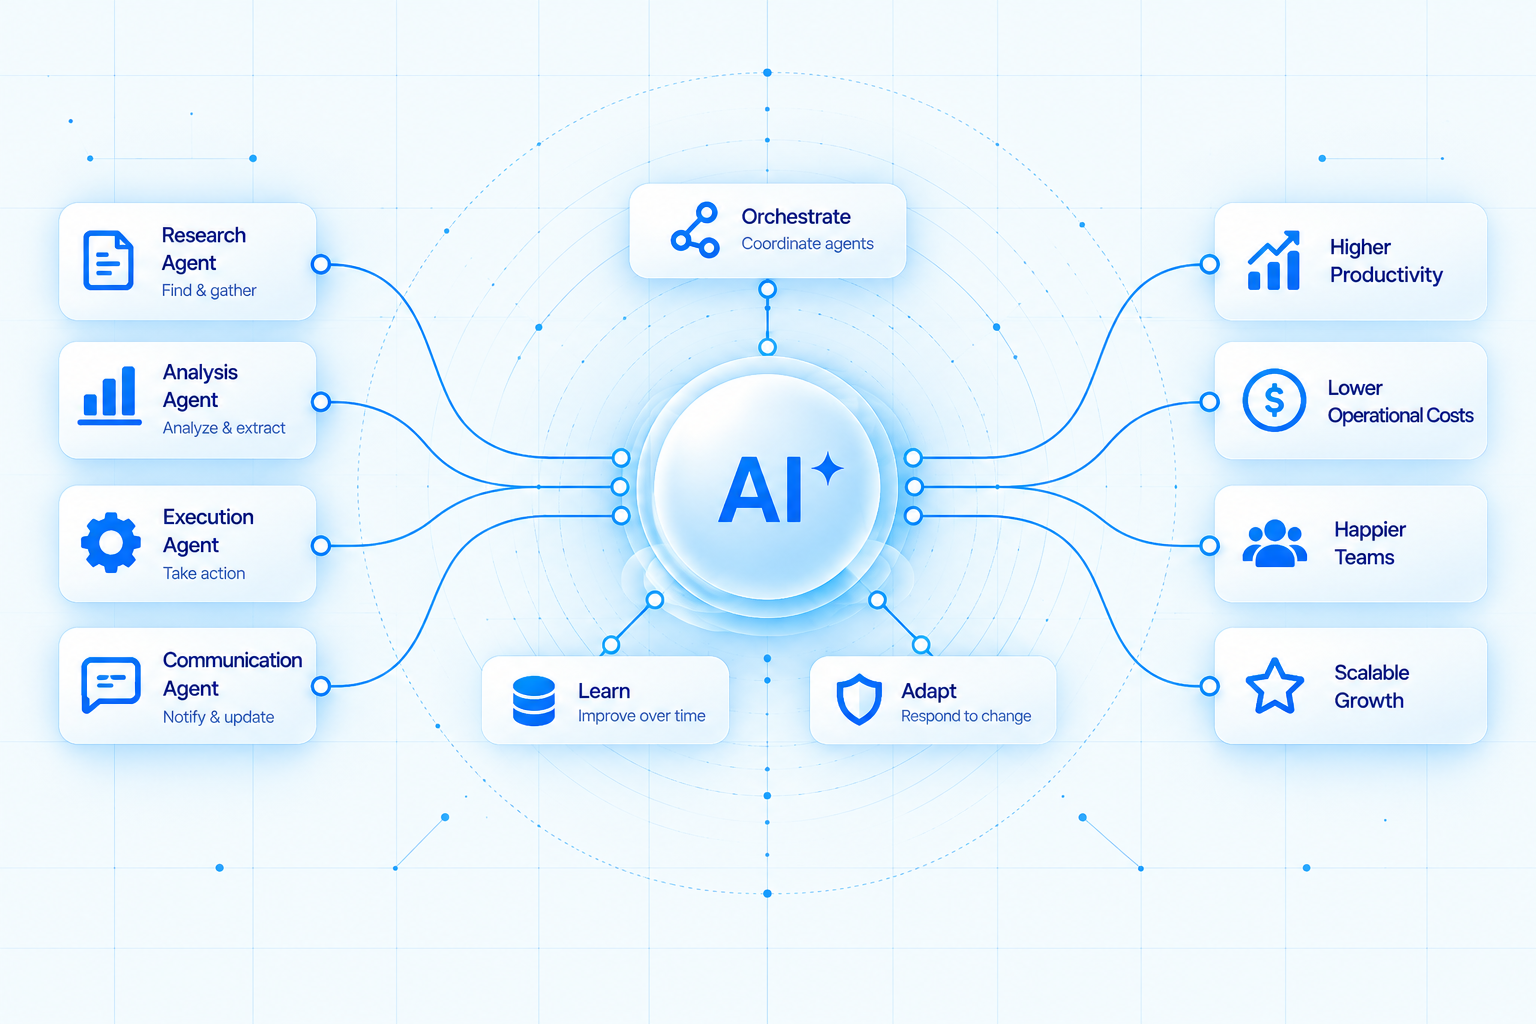
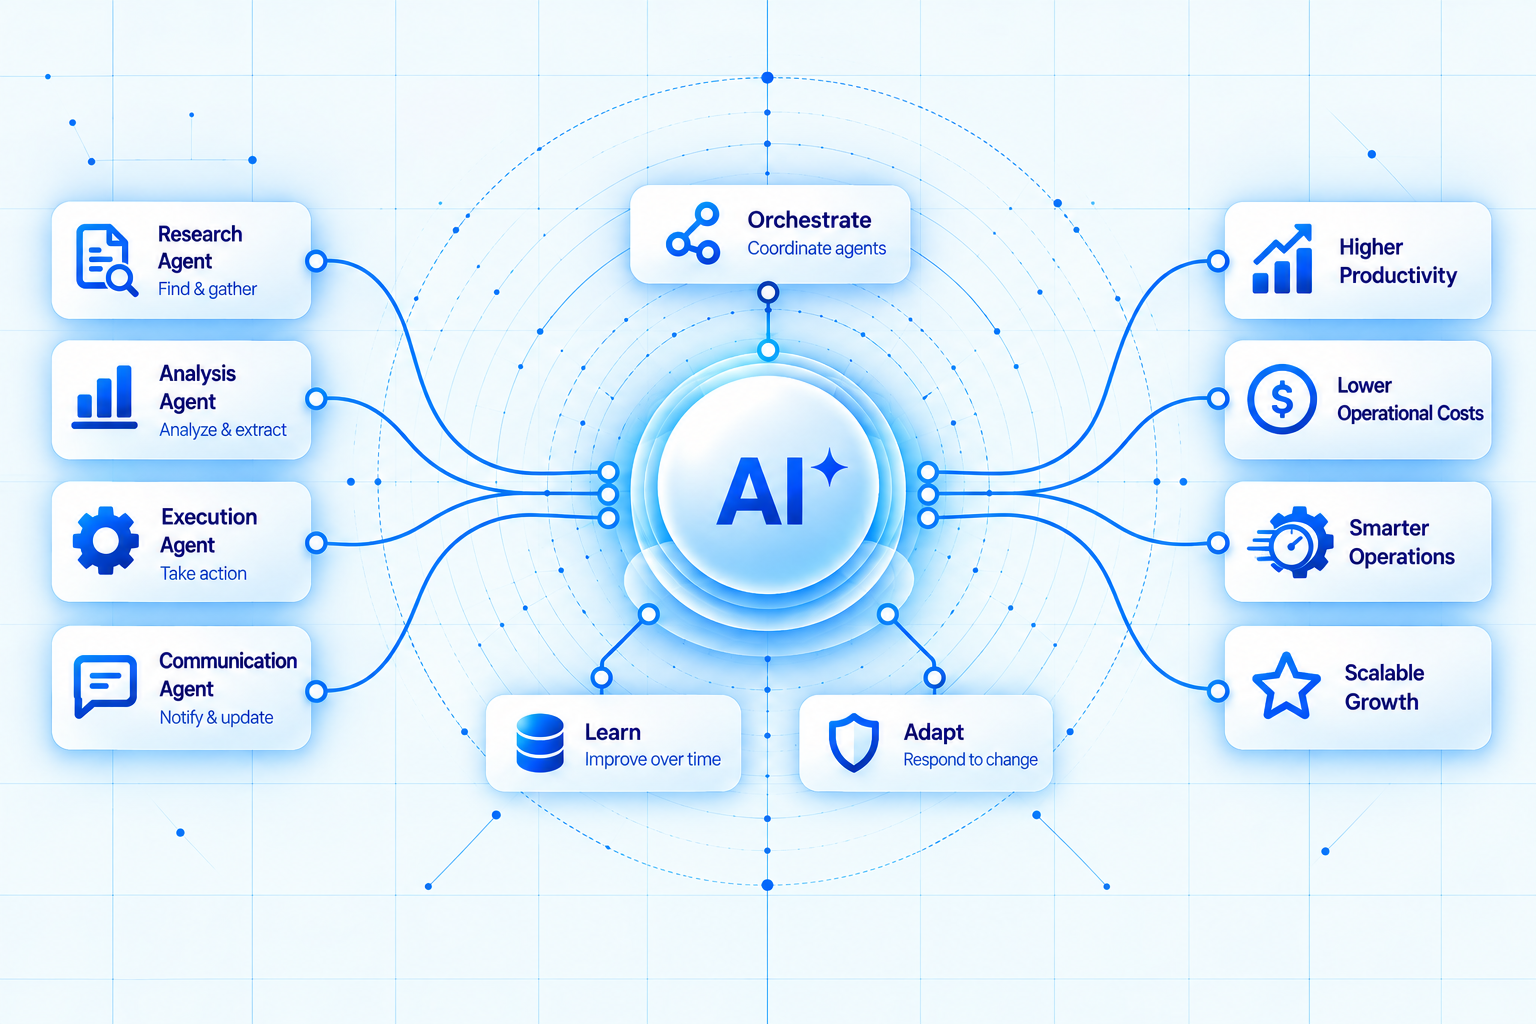
style: update testimonial content for improved clarity and engagement

diff --git a/index.html b/index.html
@@ -960,10 +960,10 @@
 
         <div class="testimonial-right-wrapper" id="testimonialTrack" role="tablist" aria-label="Customer Reviews Track">
           
-          <div class="testimonial-panel active" data-index="0" role="tab" tabindex="0" aria-selected="true" aria-label="Automate the Busywork">
+          <div class="testimonial-panel active" data-index="0" role="tab" tabindex="0" aria-selected="true" aria-label="Execute with Intelligence">
             <div class="panel-expanded-view">
               <div class="expanded-header">
-                <h3 class="expanded-name">Automate the Busywork</h3>
+                <h3 class="expanded-name">Execute with Intelligence</h3>
               </div>
 
               <p class="expanded-quote">
@@ -1519,7 +1519,7 @@
 
     const testimonialsData = [
       {
-        name: "Automate the Busywork",
+        name: "Execute with Intelligence",
         icon: "zap",
         quote: "Free your team from manual, rule-based tasks by delegating routine operations to intelligent AI agents that work around the clock.",
         visual: "assets/resources/automate.png",
